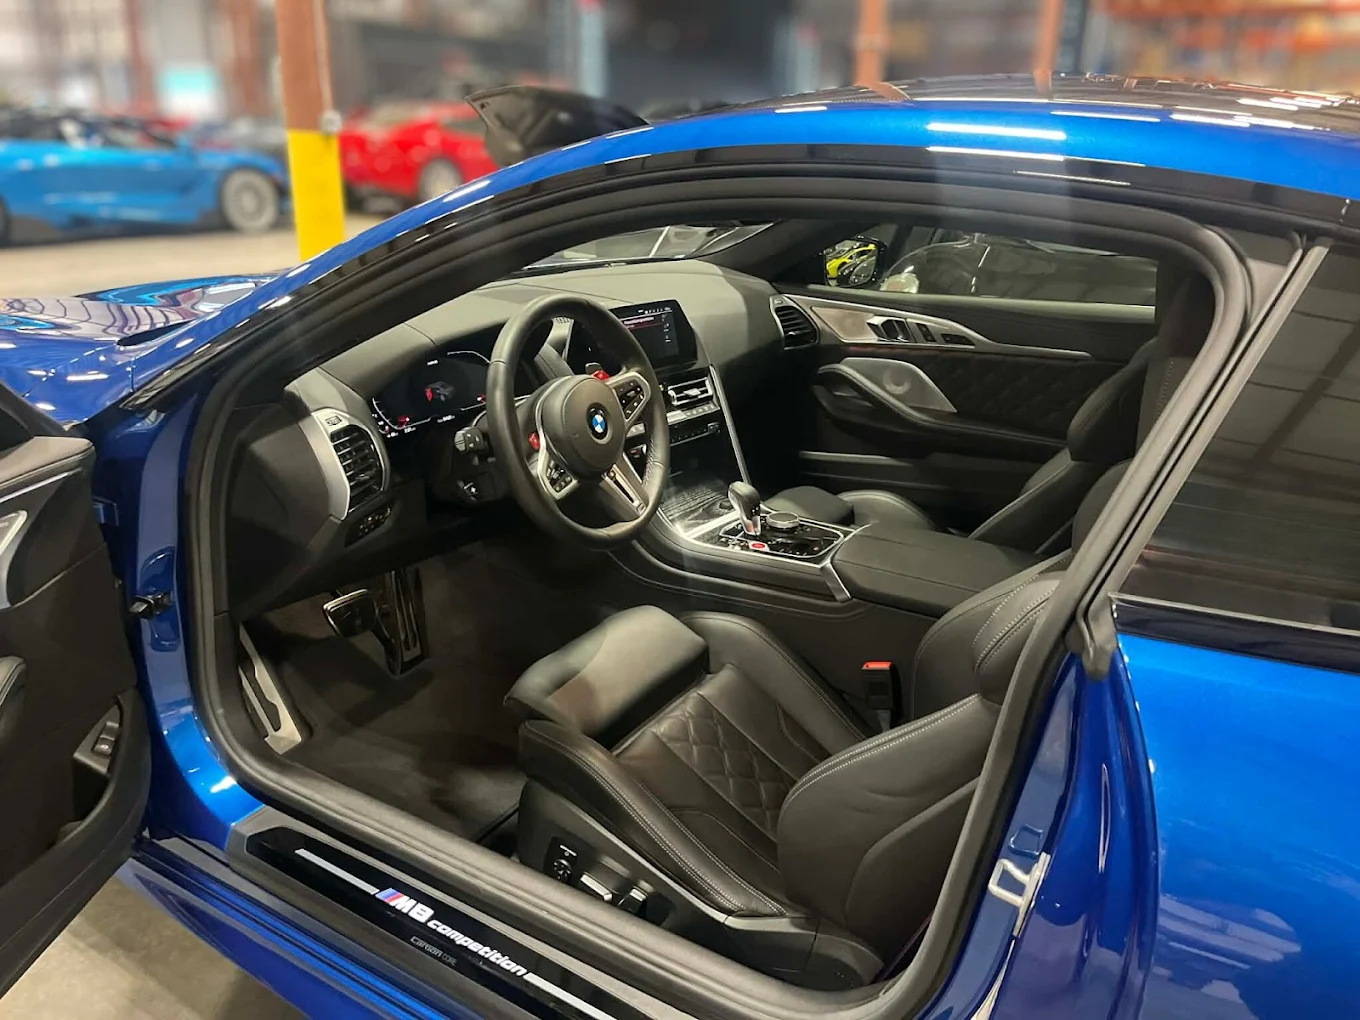
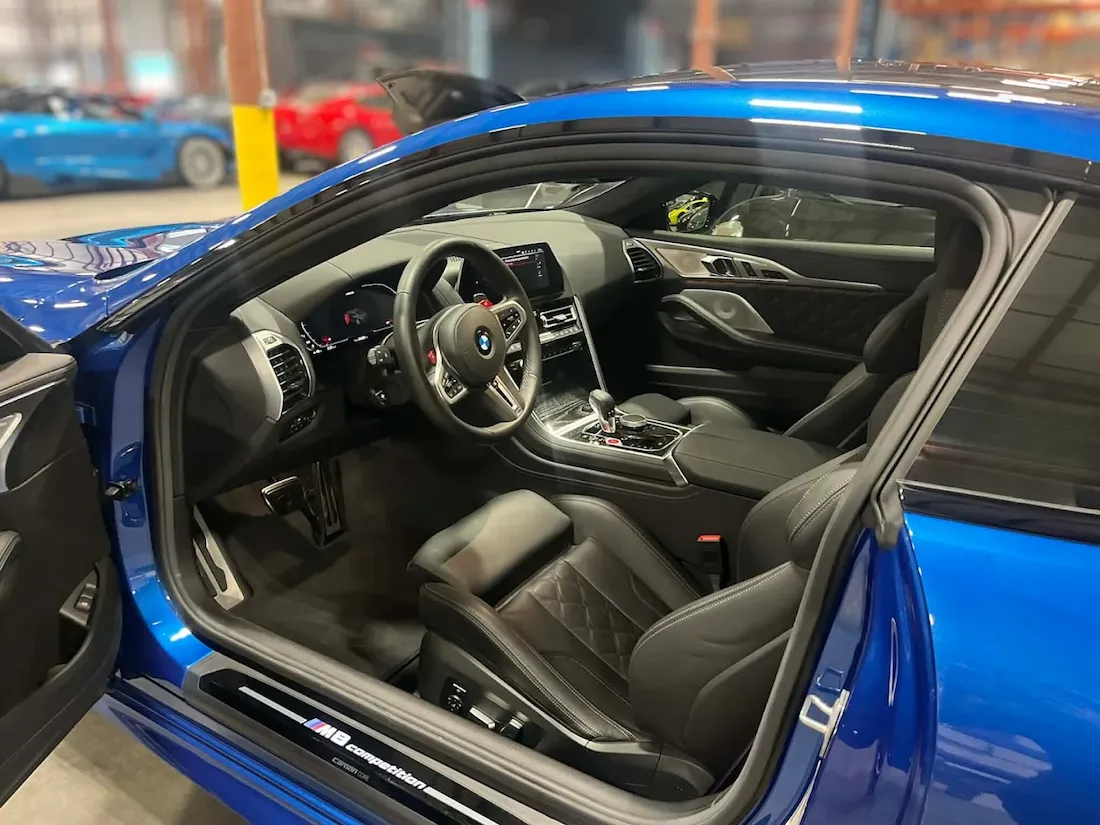
Optimize paint-correction-before-after gallery image
166.2KB -> 94.7KB at 1100x825 (was 1360x1020). Skipped the same
treatment for professional-detailing-results.jpg -- re-encoding it
as WebP at quality 80 actually produced a larger file (115.7KB ->
121.7KB), so the original JPEG stays as-is.

Changed region(s): [[0.5255, 0.5152, 0.6182, 0.5455], [0.6182, 0.2424, 0.6491, 0.2727], [0.4636, 0.303, 0.4945, 0.3333]]

diff --git a/index.html b/index.html
@@ -426,7 +426,7 @@
 
           <div class="gallery-carousel">
             <div class="gallery-slide active">
-              <img src="media/paint-correction-before-after.webp" alt="Vehicle paint correction before and after" width="1360" height="1020" loading="lazy" decoding="async" />
+              <img src="media/paint-correction-before-after.webp" alt="Vehicle paint correction before and after" width="1100" height="825" loading="lazy" decoding="async" />
               <h4 role="heading" aria-level="3">Paint Correction</h4>
             </div>
             <div class="gallery-slide">